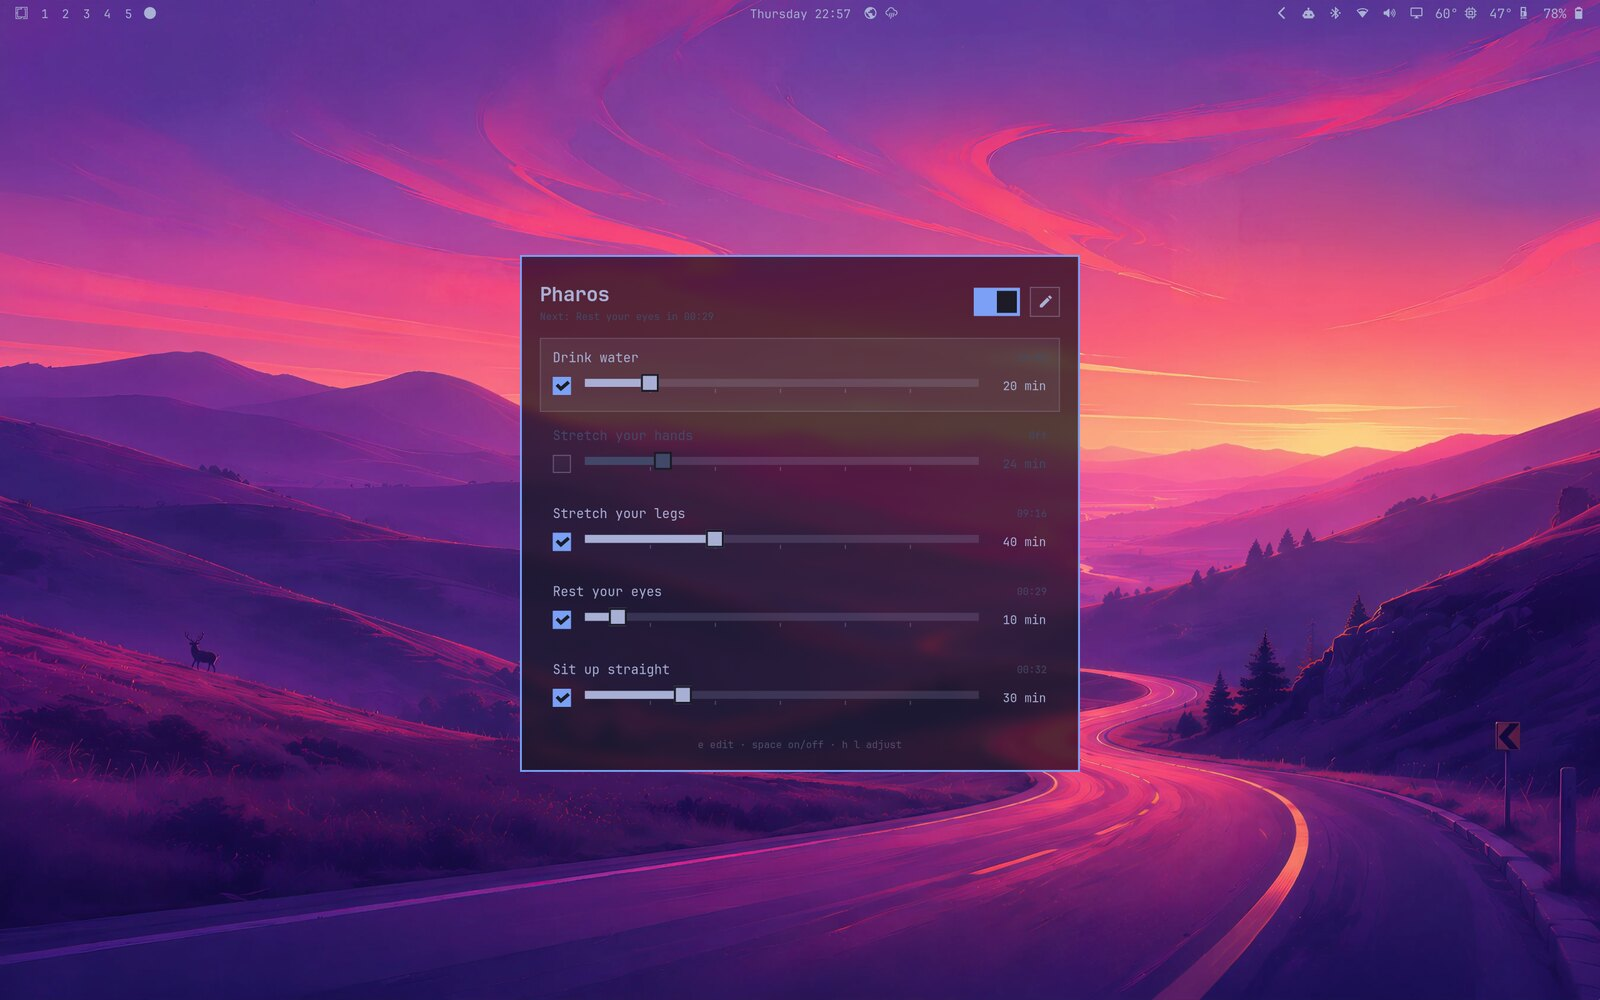
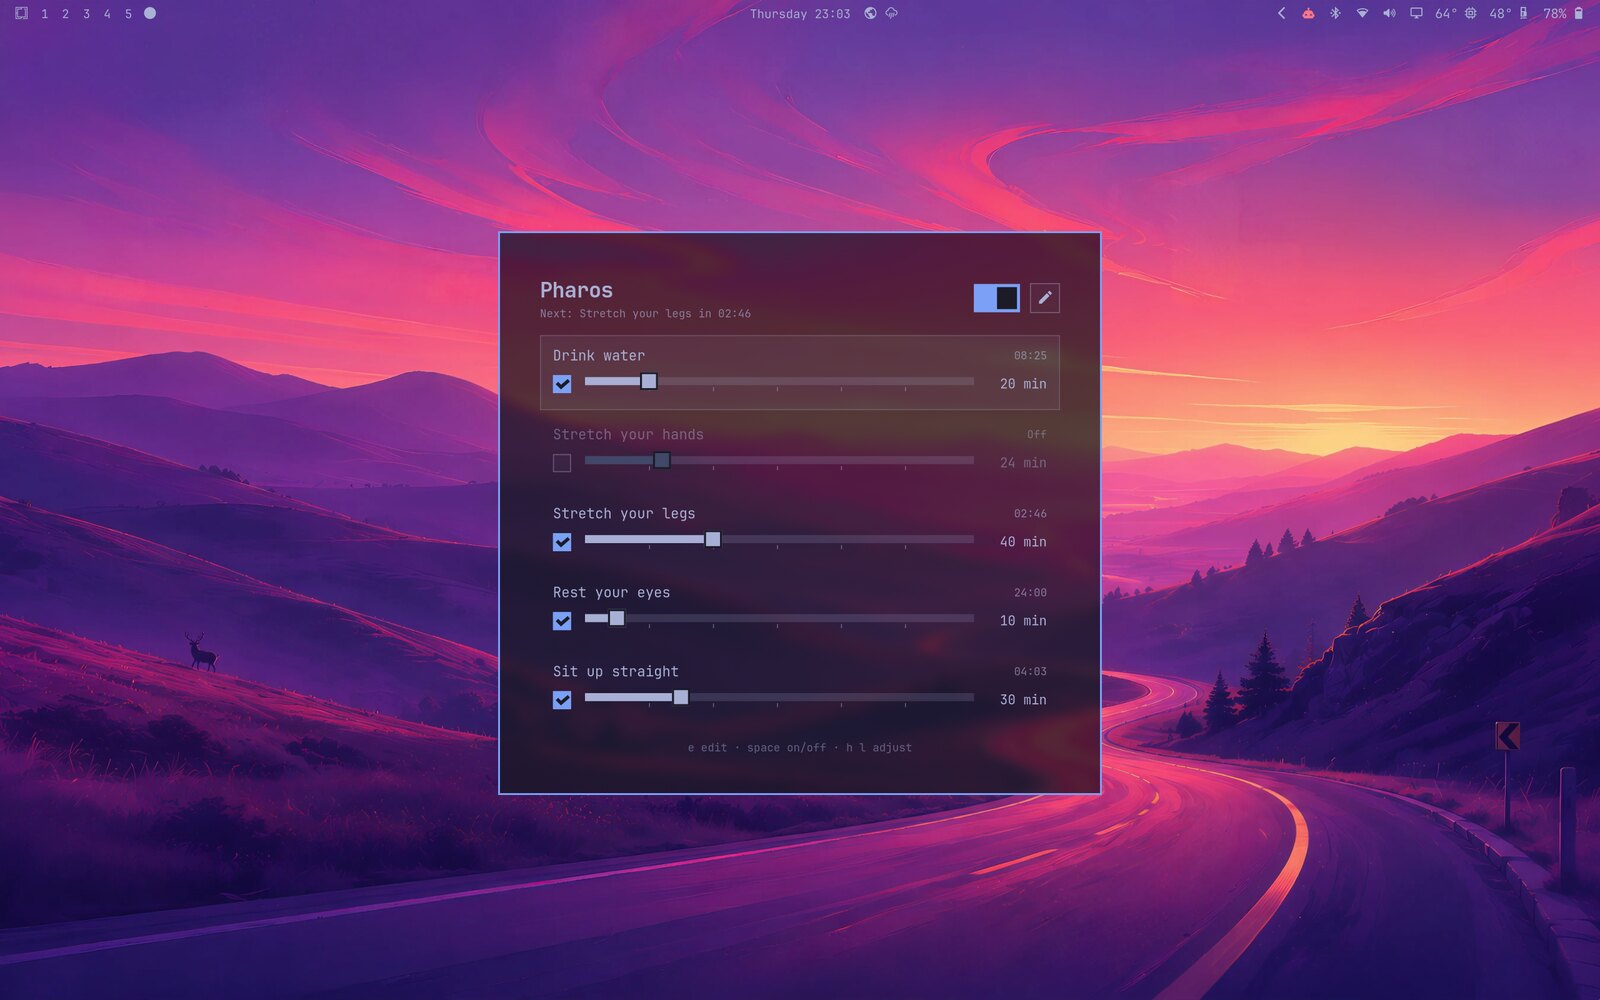
Easier to read: stronger secondary text, slightly larger type
- Status, countdowns and hints use the theme's text color, softened,
  instead of its muted color, which got lost on glass
- Text about 8% larger; turned-off reminders stay dimmer but readable
- README screenshots retaken

Changed region(s): [[0.3125, 0.217, 0.6875, 0.806], [0.4062, 0.434, 0.4375, 0.465]]

diff --git a/src/window/theme.rs b/src/window/theme.rs
@@ -336,7 +336,11 @@ impl Theme {
         let backdrop = if self.window_alpha < 1.0 { "blur(20px)" } else { "none" };
         let fg = self.foreground.css();
         let muted = self.muted.css();
-        let faint = self.foreground.alpha(0.35).css();
+        // Secondary text is the theme's own text color, softened. Themes'
+        // `muted` is made for decorations and gets lost on glass.
+        let secondary = self.foreground.alpha(0.62).css();
+        let off = self.foreground.alpha(0.45).css();
+        let faint = self.foreground.alpha(0.48).css();
         let accent = self.accent.css();
         let urgent = self.urgent.css();
         let solid_bg = self.background.css();
@@ -385,10 +389,10 @@ window.pharos label {{ color: inherit; }}
   font-weight: 700;
   letter-spacing: -0.02em;
 }}
-.pharos .status {{ color: {muted}; font-size: {caption}; }}
-.pharos .muted {{ color: {muted}; }}
+.pharos .status {{ color: {secondary}; font-size: {caption}; }}
+.pharos .muted {{ color: {secondary}; }}
 .pharos .hint {{ color: {faint}; font-size: {caption}; }}
-.pharos .empty {{ color: {muted}; padding: {sp24} 0; }}
+.pharos .empty {{ color: {secondary}; padding: {sp24} 0; }}
 .pharos .numeric {{ font-feature-settings: "tnum"; }}
 .pharos .paused {{ opacity: 0.5; }}
 
@@ -406,9 +410,10 @@ window.pharos label {{ color: inherit; }}
 }}
 .pharos .reminder .name {{ font-size: {subtitle}; }}
 .pharos .reminder .value {{ font-size: {body}; min-width: 4.5em; }}
-.pharos .reminder .countdown {{ color: {muted}; font-size: {caption}; }}
+.pharos .reminder .countdown {{ color: {secondary}; font-size: {caption}; }}
 .pharos .reminder.off .name,
-.pharos .reminder.off .value {{ color: {muted}; }}
+.pharos .reminder.off .value,
+.pharos .reminder.off .countdown {{ color: {off}; }}
 
 /* buttons */
 .pharos button {{
@@ -432,7 +437,7 @@ window.pharos label {{ color: inherit; }}
 .pharos button.add {{
   min-height: {sp36};
   border-style: dashed;
-  color: {muted};
+  color: {secondary};
 }}
 .pharos button.add:hover {{ color: {fg}; }}
 .pharos button.editing {{ background: {selected_fill}; border-color: {s_border}; }}
@@ -579,11 +584,11 @@ tooltip.background, tooltip {{
 }}
 .pharos .surface {{ background: {surface}; }}
 "#,
-            body = self.fs(1.0),
-            caption = self.fs(0.833),
-            subtitle = self.fs(1.083),
-            display = self.fs(1.667),
-            icon = self.fs(1.333),
+            body = self.fs(1.083),
+            caption = self.fs(0.917),
+            subtitle = self.fs(1.167),
+            display = self.fs(1.75),
+            icon = self.fs(1.417),
             sp4 = self.sp(4.0),
             sp8 = self.sp(8.0),
             sp10 = self.sp(10.0),
@@ -769,7 +774,8 @@ mod tests {
     #[test]
     fn font_size_scales_text_and_spacing() {
         let t = tokyo("[font]\nbase-size = 18\n", "", 0.0);
-        assert!(t.css().contains("font-size: 18.0px"));
+        // Body text is a touch above the shell's base size.
+        assert!(t.css().contains("font-size: 19.5px"));
         assert_eq!(t.padding(), 27, "18px panels at 1.5x");
         assert_eq!(tokyo("", "", 0.0).padding(), 18);
     }
